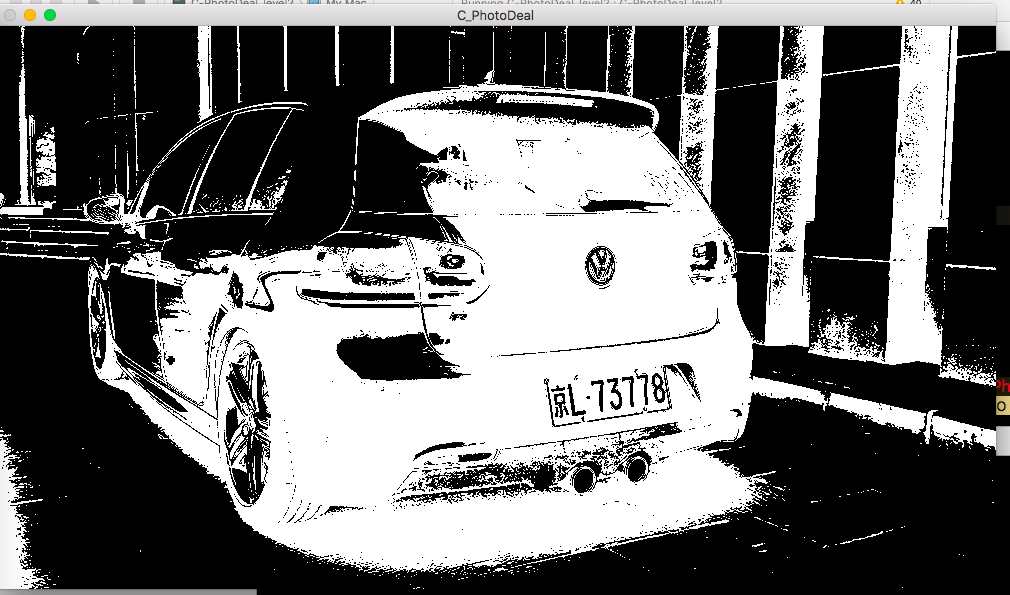
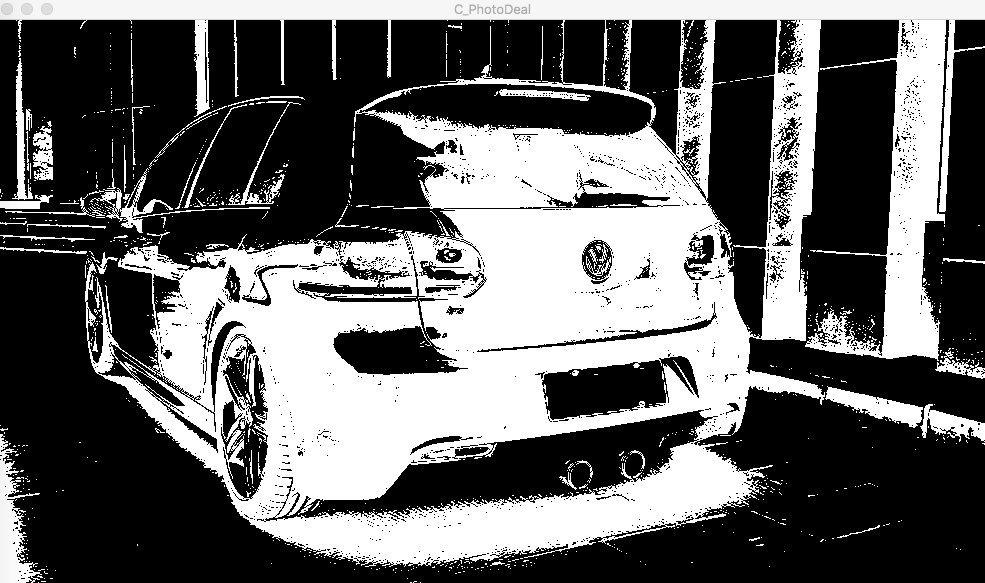
去掉带有车牌号码的示例图片

diff --git a/C-PhotoDeal_level2_APP/C-PhotoDeal_level2/main.cpp b/C-PhotoDeal_level2_APP/C-PhotoDeal_level2/main.cpp
@@ -15,15 +15,15 @@ using namespace std;
 int main(int argc, const char * argv[]) {
     // insert code here...
     std::cout << "Hello, World!\n";
-    char *path = "/Users/numberwolf/Documents/XCode&C++/C-PhotoDeal/C-PhotoDeal_level2_APP/img/1.jpg";
-//    canny_door *CannyDoor = new canny_door(path);
+    char *path = "/Users/numberwolf/Documents/XCode&C++/C-PhotoDeal/C-PhotoDeal_level2_APP/img/1no.jpg";
+    canny_door *CannyDoor = new canny_door(path);
     
     IplImage *ColorImage = cvLoadImage(path);
     int height = ColorImage->height;
     int width = ColorImage->width;
     
 //    numberPhoto::sobelCanny(ColorImage, width, height);
-    numberPhoto::otsuBinary(ColorImage, width, height, false, 80, 80);
+//    numberPhoto::otsuBinary(ColorImage, width, height, false, 80, 80);
     
     
     return 0;

diff --git a/README.MD b/README.MD
@@ -59,7 +59,7 @@ http://www.apache.org/licenses/LICENSE-2.0
                   
                   
 ###<div name="div" id="user-content-pic" >效果图:</div>                
-<img src="Demo_img/canny1.jpg" />           
+<img src="Demo_img/canny1.png" />           
 <img src="Demo_img/otsu1.png" />           
 <img src="Demo_img/1.jpg" />                  
 
